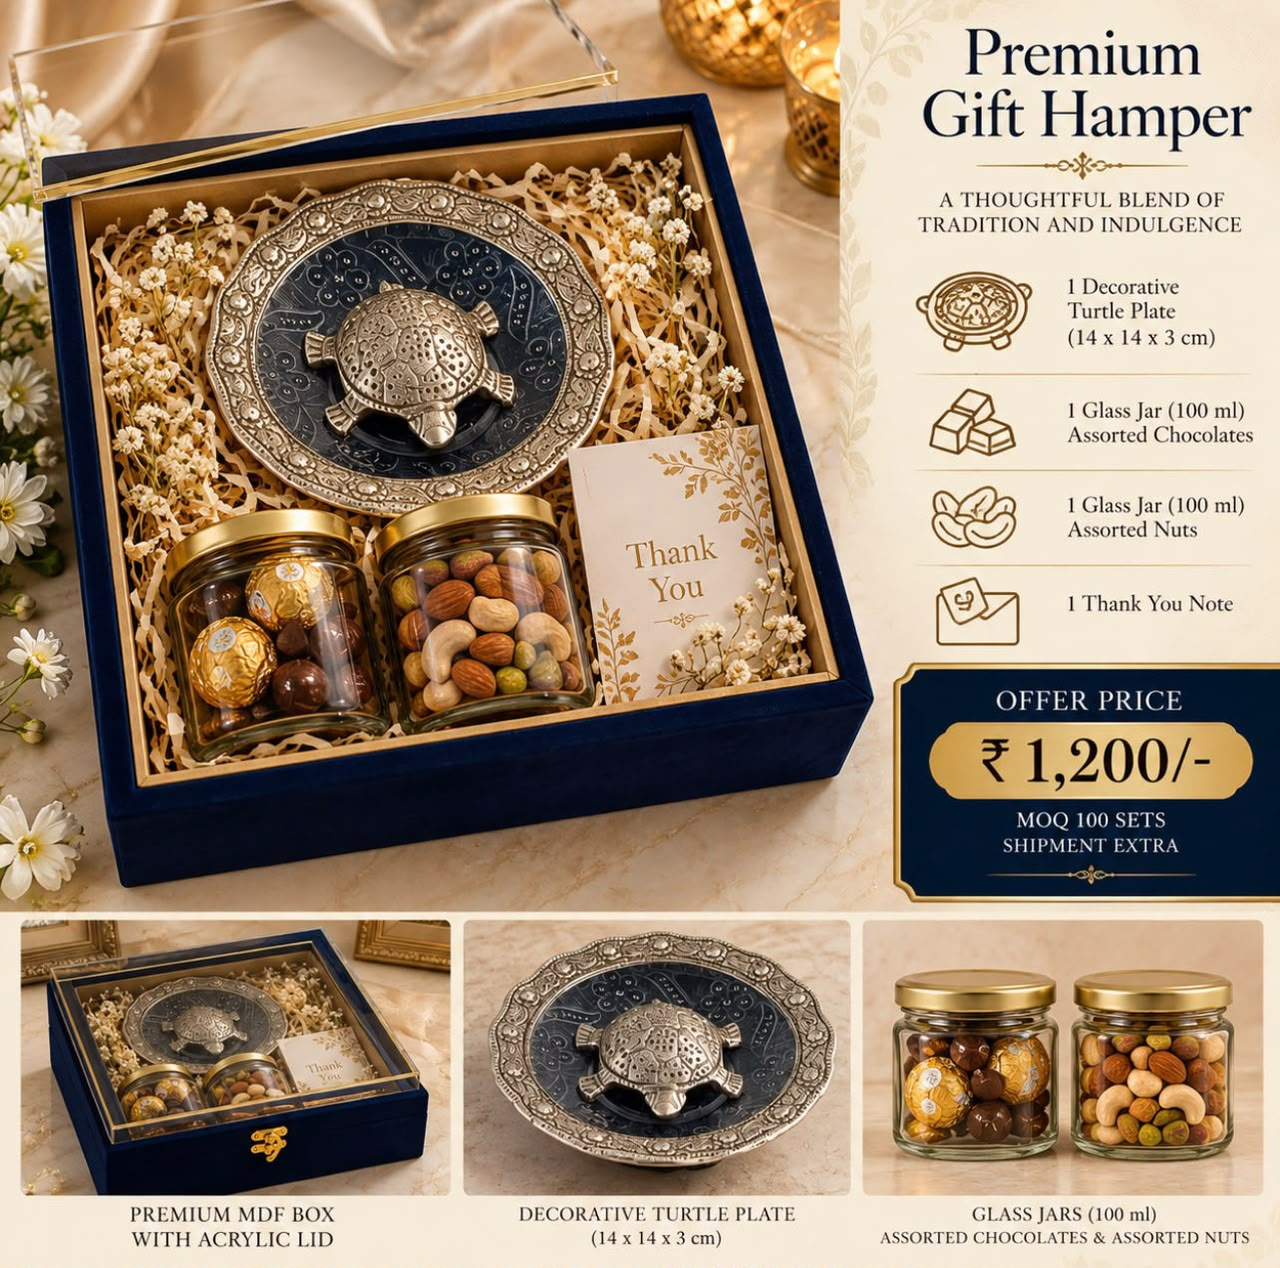
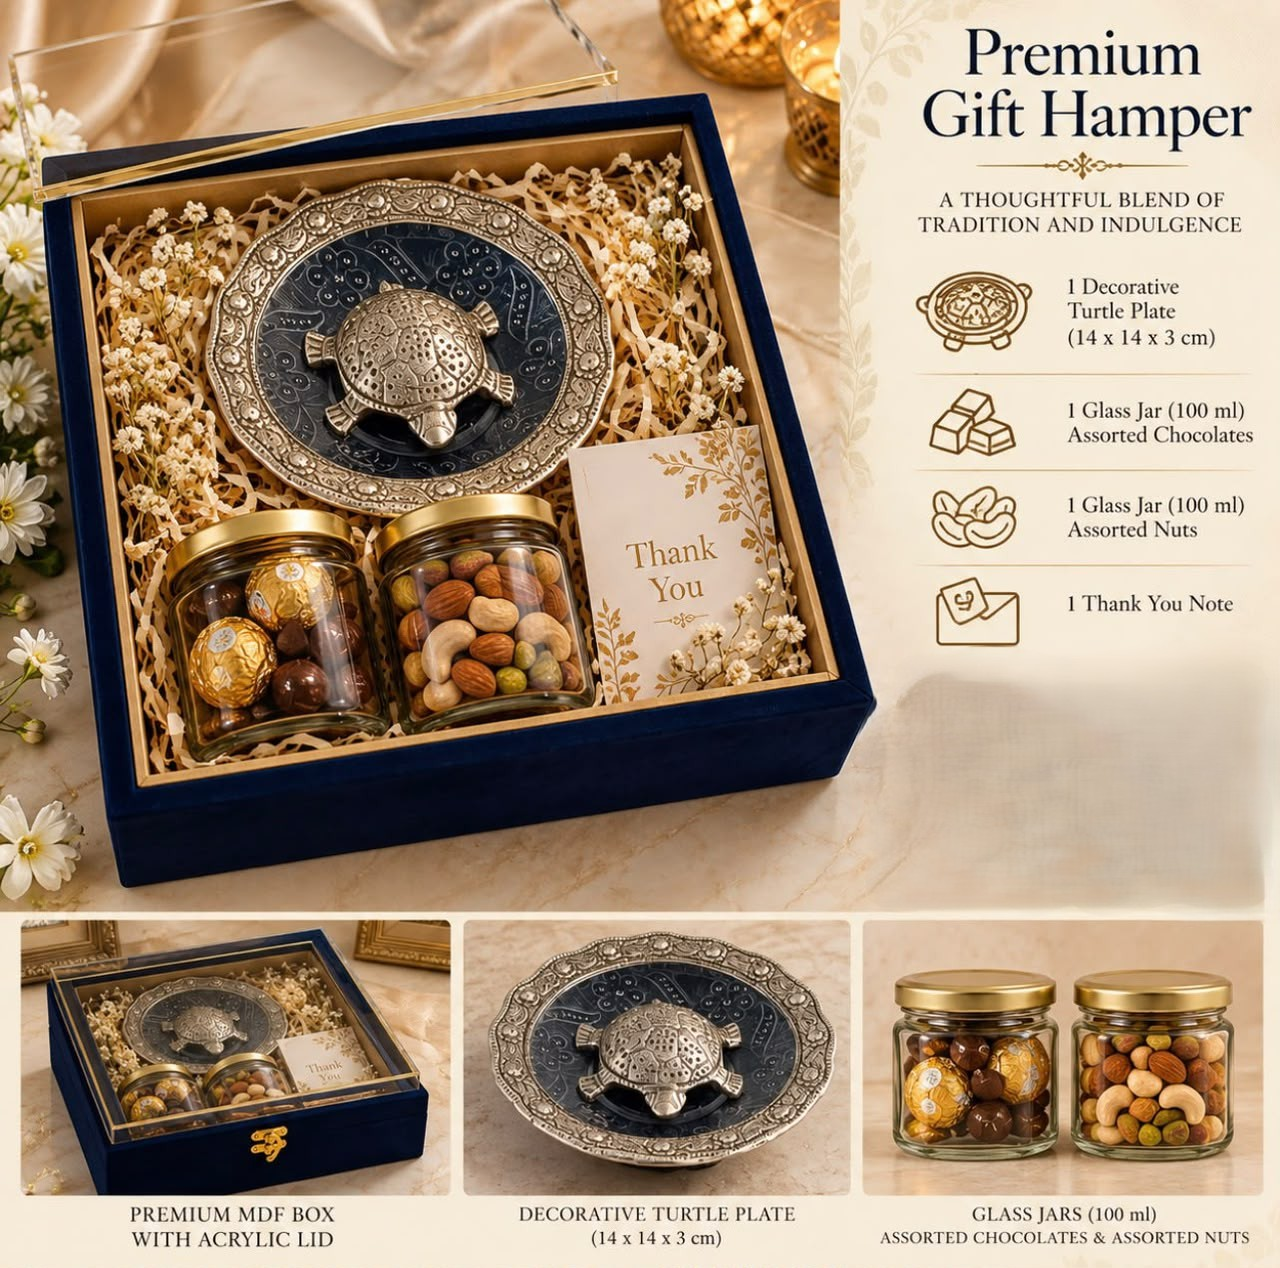
add hero text and removed price

Changed region(s): [[0.6562, 0.5229, 1.0, 0.7382]]

diff --git a/src/components/home/Hero.tsx b/src/components/home/Hero.tsx
@@ -18,6 +18,9 @@ const Hero = () => {
       />
       {/* Optional ≤10% subtle dark overlay */}
       <div className="absolute inset-0 bg-purple-deep/10 pointer-events-none" />
+      <p className="pointer-events-none absolute left-1/2 top-[78.5%] w-full -translate-x-1/2 -translate-y-1/2 px-4 text-center font-display text-sm font-semibold tracking-[0.12em] text-purple-deep sm:text-xl md:text-2xl md:tracking-[0.18em]">
+        Crafting Experiences, Creating Memories
+      </p>
     </section>
   );
 };

diff --git a/src/components/common/Header.tsx b/src/components/common/Header.tsx
@@ -82,7 +82,7 @@ const Header = () => {
             className="w-10 h-10 object-contain"
           />
           <span className="font-display text-lg md:text-xl font-semibold text-primary-foreground tracking-[0.2em]">
-            THE <span className="text-gold">MAGICORN</span>
+            THE <span className="text-gold">MAGICORN COLLECTIVES</span>
           </span>
         </Link>
 
